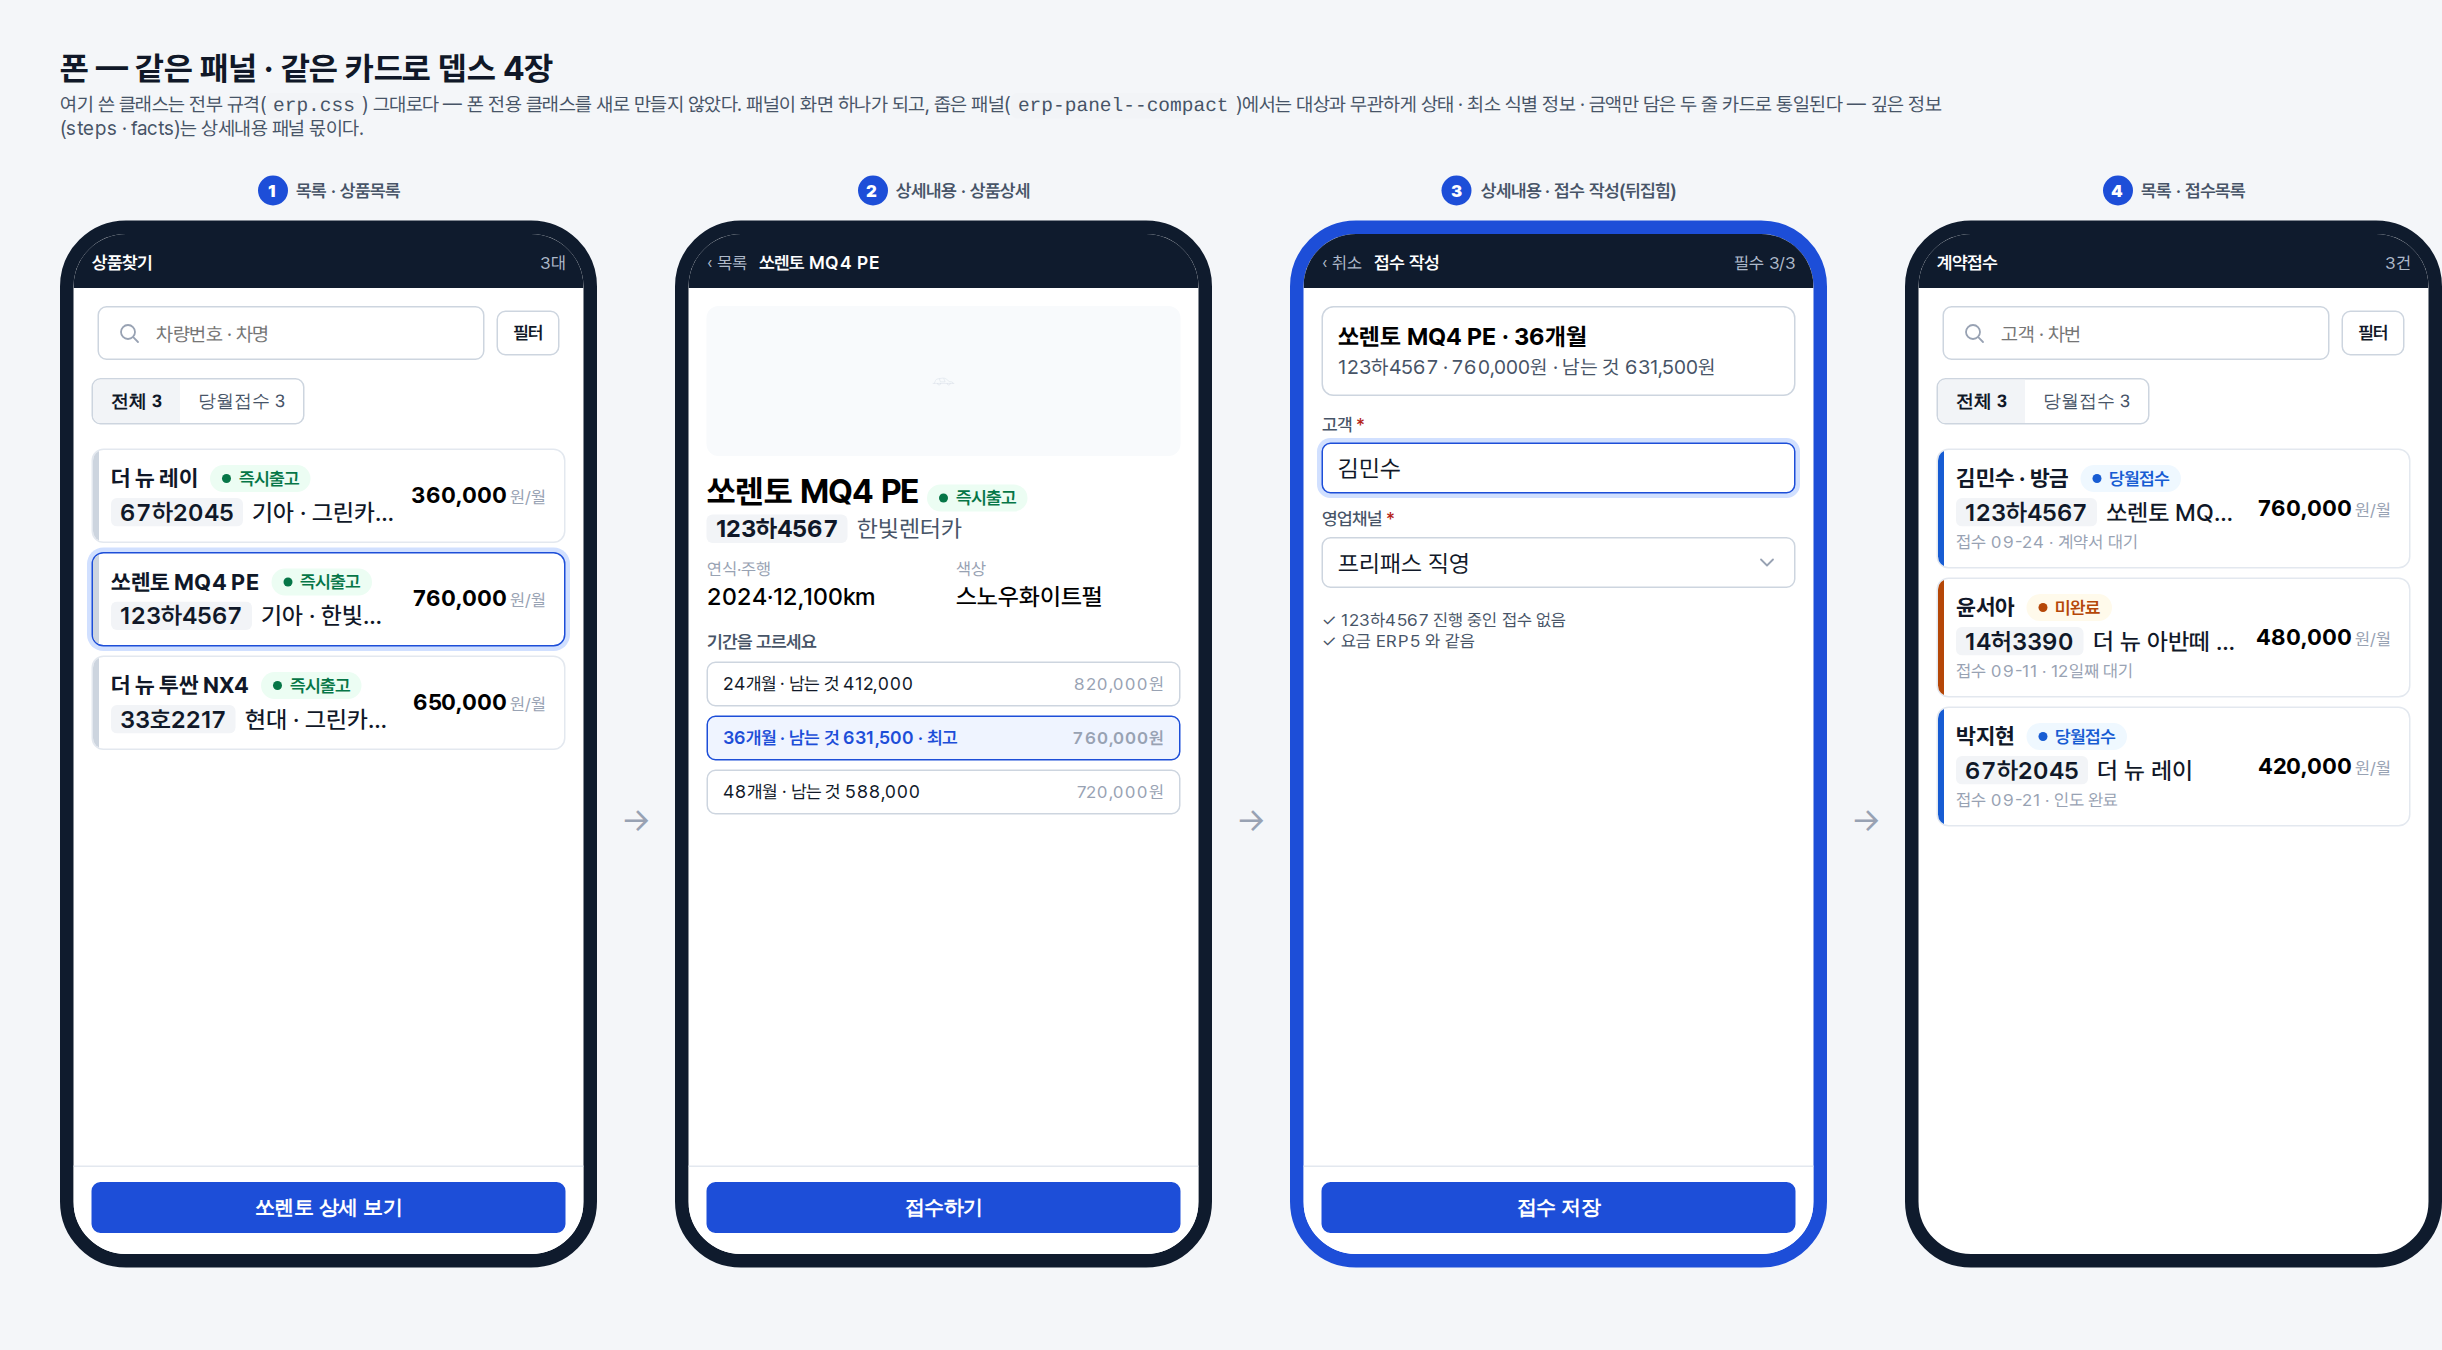
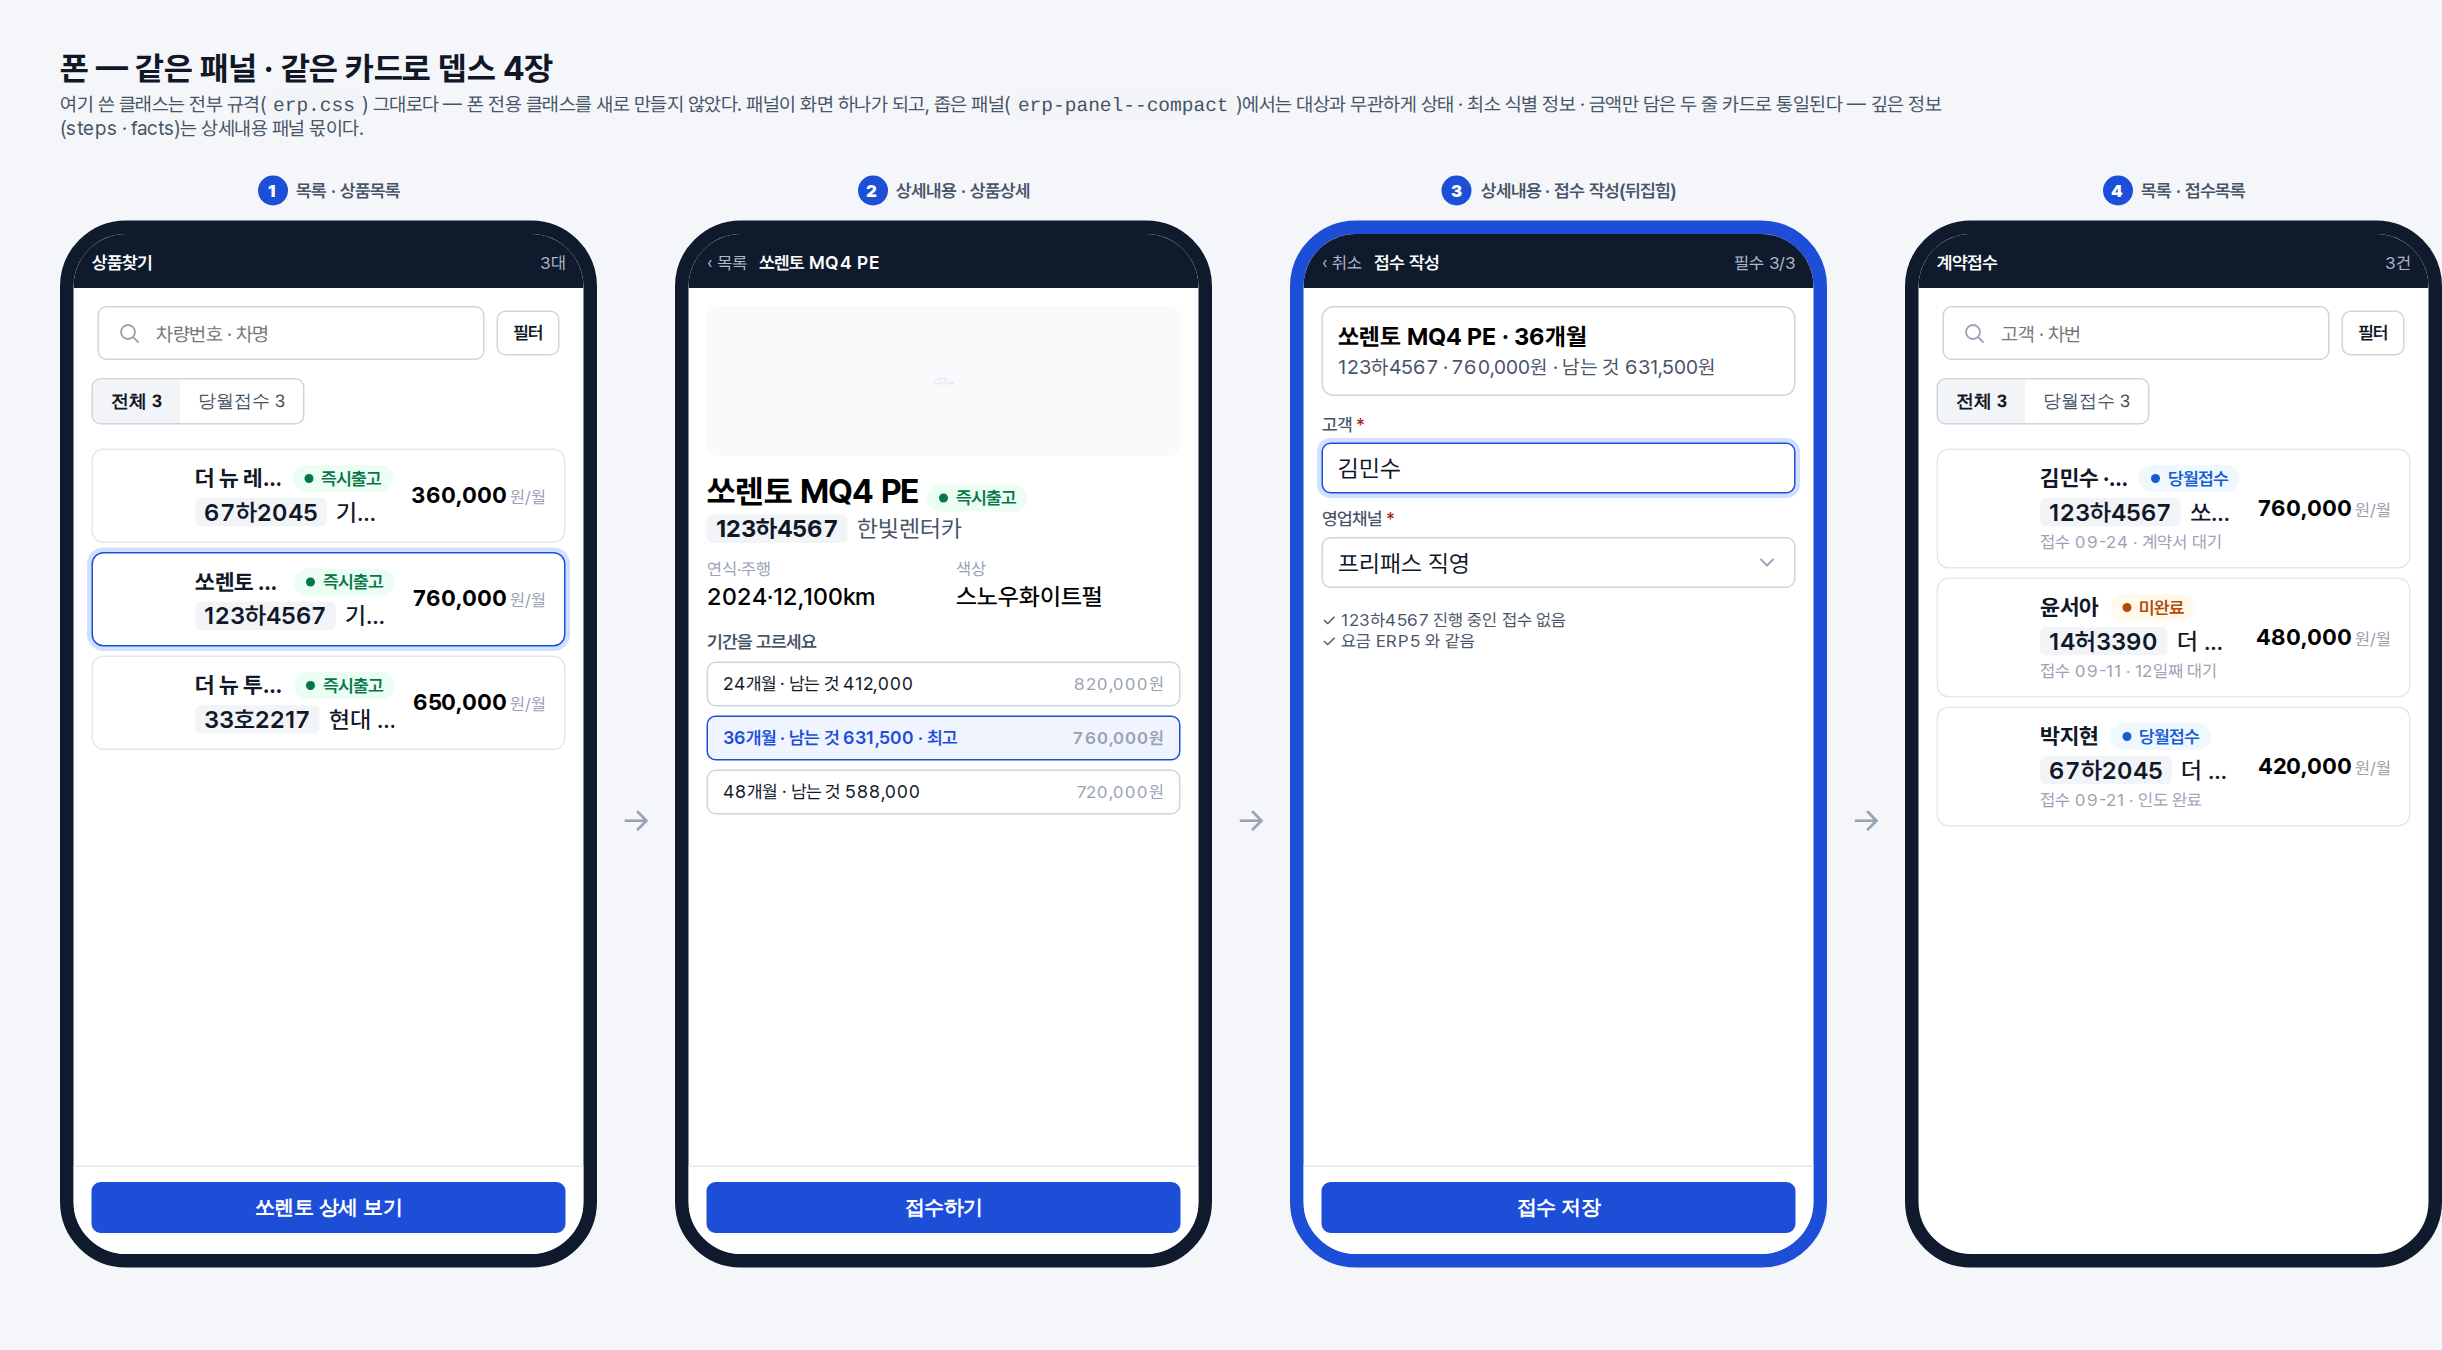
좁은 목록 카드 왼쪽 상태색 띠 제거 + 카드 글자 크기 3단으로 단순화
대표 지시 「목록 카드에 좌측에 저런 바 대는 것도 좀 촌스러워 보여 …
폰트 크기도 위계 너무 많이 나누지 말고 심플 미니멀로」 반영.

- erp-panel--compact 카드는 이미 썸네일이 상태색을 보여주므로 왼쪽 4px
  색띠(erp-rowcard::before)를 겹쳐 보여줄 필요가 없다 — 좁은 카드에서만
  지웠다. 넓은 카드(원안, 썸네일 없음)는 그대로 띠로 상태를 표시한다.
- 상세내용 패널의 글자 크기를 fs-caption·fs-body·fs-label·fs-section·
  fs-title 다섯 단계에서 fs-caption(라벨)·fs-label(본문)·fs-section
  (강조) 세 단계로 줄였다 — 대여료 숫자만 22px로 유난히 크던 것을 15px로
  낮춰 카드 목록 금액 · 상품명과 같은 강조 단계로 맞췄다.

Claude-Session: https://claude.ai/code/session_01VHqvSXhUy82o1cFFrYMP3F

diff --git a/design/erp-standard/reference/side-by-side.css b/design/erp-standard/reference/side-by-side.css
@@ -21,17 +21,20 @@ body.ref-page { margin: 0; padding: 0; height: 100vh; display: flex; flex-direct
 .sv-section-title { margin: 0 0 8px; color: var(--erp-color-text-2); font-size: var(--erp-fs-label); font-weight: var(--erp-fw-semibold); }
 
 /* ── 상세내용 패널의 카드 규격(대표 2026-09-24 「카드 좌우 간격 그리고 카드 안에 텍스트 폰트 규격
- * 이런 거 다 통일시켜 봐 … 카드를 어떻게 꾸밀지 누르는 카든지 설명하는 카든지 이런 게 중요함」) ──
+ * 이런 거 다 통일시켜 봐 … 누르는 카든지 설명하는 카든지」 → 「좌측에 바 대는 것도 촌스러워 보여 …
+ * 폰트 크기도 위계 너무 많이 나누지 말고 심플 미니멀로」) ──
  * 이 패널 안의 카드는 성격이 둘뿐이다 — 공통 규격(패딩 var(--erp-sp-3) 12px · 모서리 var(--erp-r-lg) ·
- * 카드 사이 간격 var(--erp-sp-2) 8px)은 무조건 같고, 성격에 따라 테두리 · 글자만 달라진다.
+ * 카드 사이 간격 var(--erp-sp-2) 8px)은 무조건 같고, 성격에 따라 테두리 굵기만 달라진다.
  *   A. 누르는 카드(sv-term) — 골라서 접수를 결정하는 카드. 테두리가 진하다(line-strong, 눌러보라는
- *      신호) · 고르면 굵은 Primary 테두리로 바뀐다(aria-pressed) · 안의 숫자(대여료)가 fs-title(22px)로
- *      제일 크다 — 이 카드 안에서 결정하는 값이라서.
+ *      신호) · 고르면 굵은 Primary 테두리로 바뀐다(aria-pressed).
  *   B. 설명하는 카드(sv-ref-card) — 그냥 읽는 참고 카드. 테두리가 옅다(line, 안 눌러진다는 신호) ·
- *      상태 변화가 없다 · 안의 값은 fs-label(12px)을 넘지 않는다 — 읽기만 하면 되는 정보라서 도드라질
- *      필요가 없다. 두 카드 다 라벨(작은 글자, text-2/3 계열)과 값(본문 글자, text)을 위아래로 두는
- *      같은 뼈대를 쓴다 — 다만 A는 라벨이 fs-label, B는 라벨이 한 단계 더 작은 fs-caption이다(A의
- *      라벨=고르는 항목 이름이라 좀 더 또렷해야 하고, B의 라벨=참고용 소제목이라 낮아도 된다). */
+ *      상태 변화가 없다.
+ * 글자 크기 위계는 셋으로 끝낸다(대표 지시대로 더 안 나눈다) — 이 패널의 모든 카드 · 소제목이 이 셋만 쓴다.
+ *   · fs-caption(11.5px) — 라벨/보조(dt, 남는 것 같은 보조 값)
+ *   · fs-label(12px) — 본문/제목(카드 제목, dd 값, 대여료 기간 이름, 섹션 소제목)
+ *   · fs-section(15px) — 강조(대여료 · 상품명처럼 이 화면에서 실제로 보고 판단하는 숫자 · 이름)
+ * (예전엔 fs-title(22px)까지 써서 대여료 숫자만 유난히 튀었다 — fs-section 으로 낮춰 나머지 강조
+ * 요소(카드 목록 금액, 상품명)와 같은 단계로 맞췄다.) */
 
 /* ② 대여료 선택 — 메인(대표 2026-09-24 「기간별 대여료 선택을 하는 걸 메인으로」): 옅은 배경 판 위에 크게.
  * 배경 판이 좌우로 var(--erp-sp-3) 만큼 카드를 더 안쪽으로 밀어서, 카드 좌우 끝이 아래 설명하는 카드
@@ -39,12 +42,12 @@ body.ref-page { margin: 0; padding: 0; height: 100vh; display: flex; flex-direct
  * 카드 규격은 다 동일해야지」). 배경 판은 위아래로만 여백을 주고 좌우는 0으로 — 카드 좌우 끝이
  * sv-detail-body 패딩 하나로만 정해지게 해서 이 패널의 모든 카드가 정확히 같은 좌우 위치에 선다. */
 .sv-terms-main { padding: var(--erp-sp-3) 0 2px; border-radius: var(--erp-r-lg); background: var(--erp-color-sunken); }
-.sv-section-title--main { color: var(--erp-color-text); font-size: var(--erp-fs-body); font-weight: var(--erp-fw-bold); }
+.sv-section-title--main { color: var(--erp-color-text); font-size: var(--erp-fs-label); font-weight: var(--erp-fw-bold); }
 .sv-terms { display: flex; flex-direction: column; gap: var(--erp-sp-2); padding-bottom: var(--erp-sp-3); }
 .sv-term { display: grid; grid-template-columns: 54px minmax(0, 1fr) auto; align-items: center; gap: 4px 10px; padding: var(--erp-sp-3); border: 1px solid var(--erp-color-line-strong); border-radius: var(--erp-r-lg); background: var(--erp-color-surface); }
 .sv-term b { font-weight: var(--erp-fw-bold); color: var(--erp-color-text-2); font-size: var(--erp-fs-label); }
 .sv-term span { color: var(--erp-color-ok); font-size: var(--erp-fs-caption); font-weight: var(--erp-fw-semibold); }
-.sv-term strong { font-size: var(--erp-fs-title); font-weight: var(--erp-fw-bold); color: var(--erp-color-text); }
+.sv-term strong { font-size: var(--erp-fs-section); font-weight: var(--erp-fw-bold); color: var(--erp-color-text); }
 .sv-term[aria-pressed="true"] { border: 2px solid var(--erp-color-primary); background: var(--erp-color-primary-weak); }
 .sv-term[aria-pressed="true"] b, .sv-term[aria-pressed="true"] strong { color: var(--erp-color-primary); }
 

diff --git a/design/erp-standard/erp.css b/design/erp-standard/erp.css
@@ -458,6 +458,9 @@
 .erp-panel--compact .erp-rowcard[data-tone="info"] .erp-rowcard-thumb { background: var(--erp-color-info-bg); color: var(--erp-color-info); }
 .erp-panel--compact .erp-rowcard[data-tone="warn"] .erp-rowcard-thumb { background: var(--erp-color-warn-bg); color: var(--erp-color-warn); }
 .erp-panel--compact .erp-rowcard[data-tone="err"] .erp-rowcard-thumb { background: var(--erp-color-err-bg); color: var(--erp-color-err); }
+/* 왼쪽 상태색 띠(§5-3 원안)는 썸네일이 이미 상태색을 보여주는 좁은 카드에서는 겹치는 장식이라 촌스러워
+   보인다(대표 2026-09-24 「목록 카드에 좌측에 저런 바 대는 것도 좀 촌스러워 보여」) — 좁은 카드에서 지운다. */
+.erp-panel--compact .erp-rowcard::before { display: none; }
 /* 검색창 · 퀵 필터 줄 밑의 구분선 — 좁은 패널에서 검색창 바로 밑에 퀵 필터가 붙으면서 선 두 개가 다닥다닥
  * 붙어 지저분해졌다(대표 2026-09-24 「검색창이랑 목록카드 사이에 라인 없애자」). 좁은 패널에서는 지운다 —
  * 카드 목록의 sunken 배경색만으로도 위 검색 영역과 구분이 된다. */
